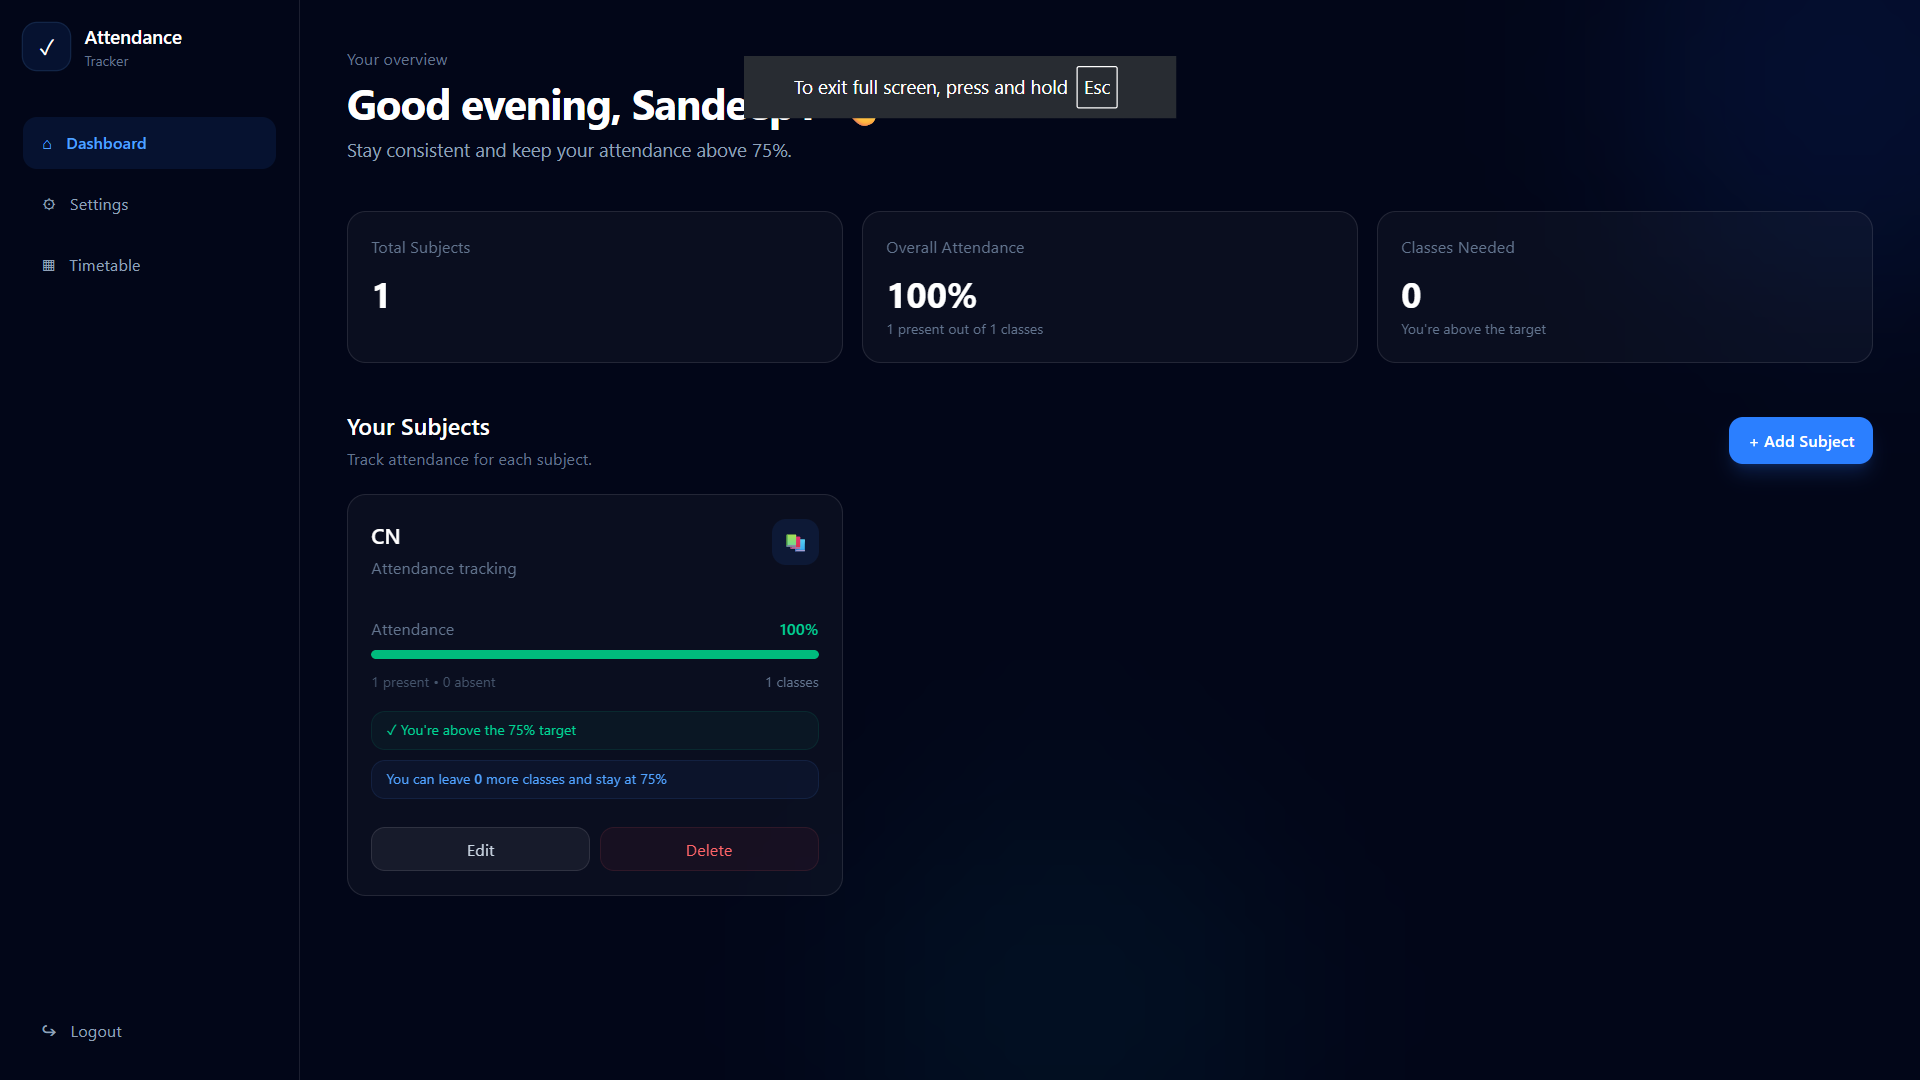
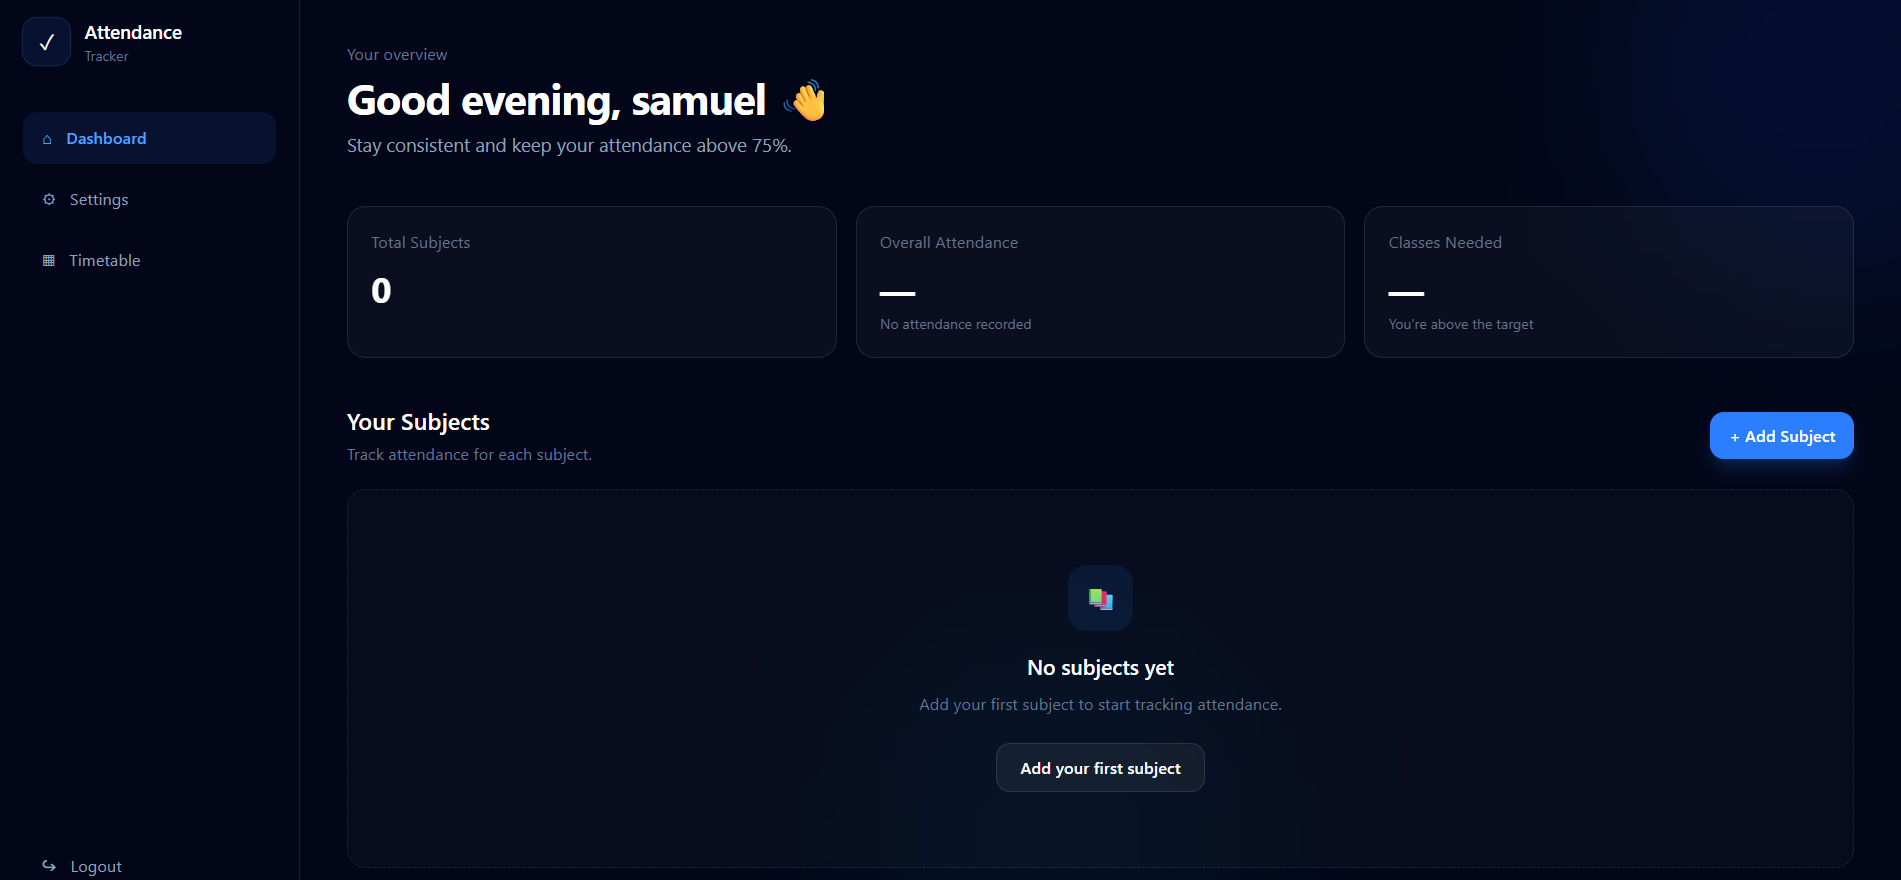
Add Receiptly AI project

diff --git a/src/components/Projects.jsx b/src/components/Projects.jsx
@@ -1,6 +1,7 @@
 import urlShortenerImage from "../assets/projects/url-shortener.png";
 import collegeManagementImage from "../assets/projects/college-management.png";
 import attendanceTrackerImage from "../assets/projects/dashboard.png";
+import receiptTracker from "../assets/projects/Recieptly-AI.png";
 import { motion } from "framer-motion";
 import { FaGithub, FaExternalLinkAlt } from "react-icons/fa";
 
@@ -74,6 +75,23 @@ const projects = [
       { name: "Tailwind CSS", icon: SiTailwindcss },
     ],
   },
+  {
+  title: "Receiptly AI",
+  category: "AI-Powered Full Stack Web Application",
+  description:
+    "An AI-powered receipt tracking application that extracts transaction details from receipt images, organizes expenses, and provides spending insights through an interactive dashboard.",
+  github: "https://github.com/sandeepdeveloper247-rgb/Receiptly-AI",
+  live: null,
+  image: receiptTracker,
+  featured: false,
+  tech: [
+    { name: "React", icon: SiReact },
+    { name: "Node.js", icon: SiNodedotjs },
+    { name: "Express", icon: SiExpress },
+    { name: "MongoDB", icon: SiMongodb },
+    { name: "Tailwind CSS", icon: SiTailwindcss },
+  ],
+},
 ];
 
 const Projects = () => {

diff --git a/src/components/Achievements.jsx b/src/components/Achievements.jsx
@@ -9,7 +9,7 @@ import {
 const achievements = [
   {
     icon: FaCode,
-    number: "300+",
+    number: "400+",
     title: "LeetCode Problems",
     description:
       "Consistent problem solving across data structures and algorithms.",
@@ -30,7 +30,7 @@ const achievements = [
   },
   {
     icon: FaGraduationCap,
-    number: "8.71",
+    number: "8.78",
     title: "CGPA",
     description:
       "Maintaining a strong academic record in B.Tech Computer Science.",
